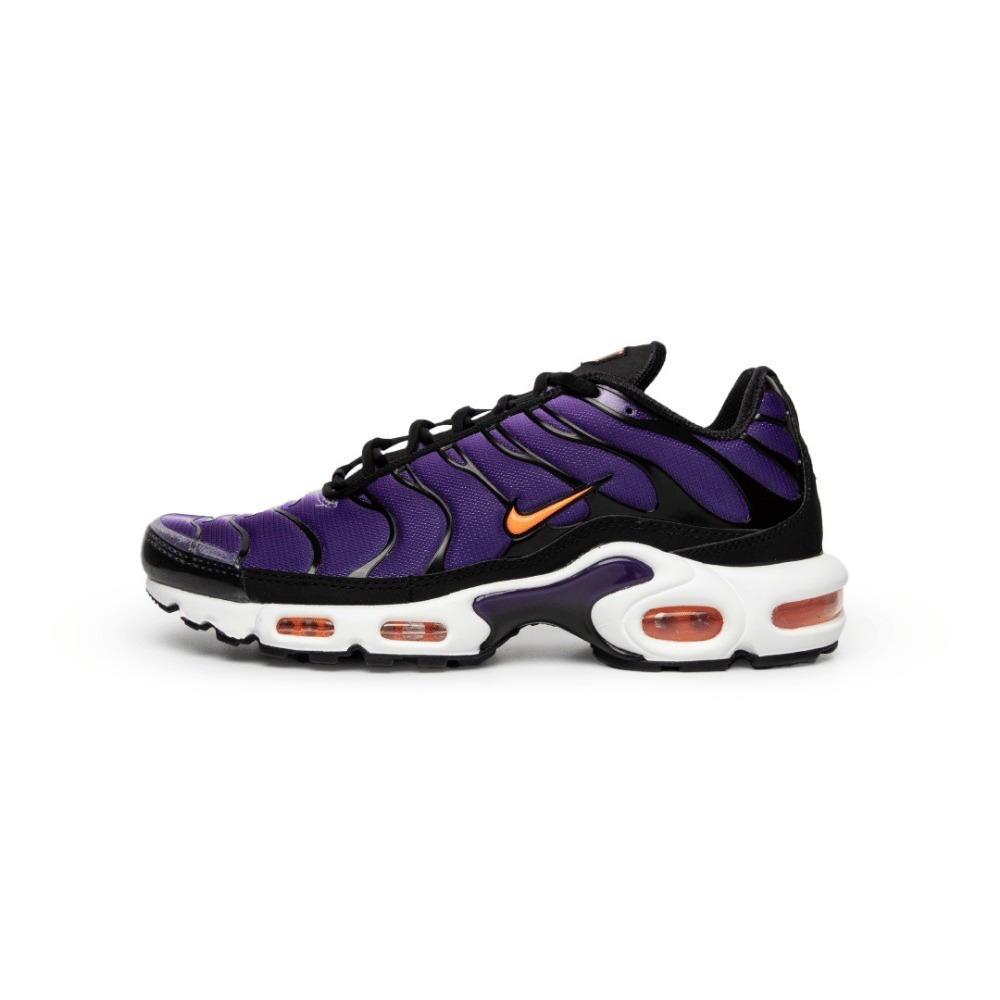
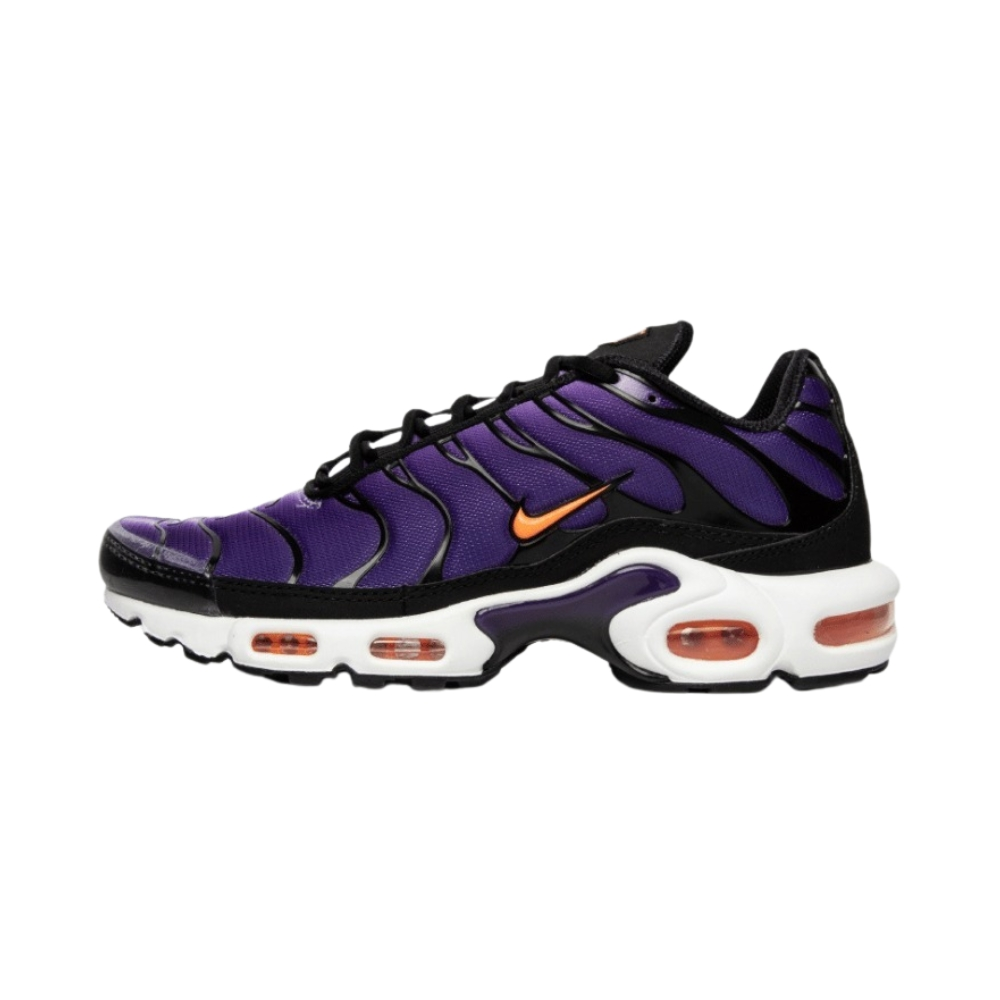
atualizado

Changed region(s): [[0.093, 0.31, 0.899, 0.713]]

diff --git a/home.html b/home.html
@@ -139,7 +139,7 @@
     <h1 id="nikeh">NIKE</h1>
     <div class="container-produtos">
         <article class="produto">
-            <img src="Imagens/air max 90 - 2.webp" alt="AIR MAX 90">
+            <img src="Imagens/air max 90 - 2.jpg" alt="AIR MAX 90">
             <h2>Air Max 90 Iron Grey</h2>
             <p>Produto de alta qualidade, conforto e um design incrível.</p>
             <span class="preco">R$ 589,99</span>
@@ -149,7 +149,7 @@
         </article>
 
         <article class="produto">
-            <img src="Imagens/dunk.webp" alt="DUNK LOW COURT PURPLE">
+            <img src="Imagens/dunk-0.jpg" alt="DUNK LOW COURT PURPLE">
             <h2>Dunk Low Court Purple</h2>
             <p>O clássico Nike SB Dunk Low ganha uma releitura ousada pelas mãos da skatista australiana Hayley Wilson.</p>
             <span class="preco">R$ 1.589,30</span>
@@ -159,7 +159,7 @@
         </article>
 
         <article class="produto">
-            <img src="Imagens/cortez-0.webp" alt="AIR MAX 95 CORTEZ">
+            <img src="Imagens/corteiz-0.jpg" alt="AIR MAX 95 CORTEZ">
             <h2>Corteiz x Nike Air Max 95</h2>
             <p>Lançado como parte do pacote ‘Rules the World’ da marca de streetwear do Reino Unido.</p>
             <span class="preco">R$ 5.299,90</span>
@@ -183,7 +183,7 @@
     <h1 id="adidash">ADIDAS</h1>
     <div class="container-produtos">
         <article class="produto">
-            <img src="Imagens/campus-0.webp" alt="Produto Nike">
+            <img src="Imagens/campus-0.jpg" alt="Produto Nike">
             <h2>Campus 00s Grey Three Carbon</h2>
             <p>Modelo icônico original com materiais, cores e proporções modernas.</p>
             <span class="preco">R$ 750,00</span>
@@ -193,7 +193,7 @@
         </article>
 
         <article class="produto">
-            <img src="Imagens/thieves-0.webp" alt="Produto Adidas">
+            <img src="Imagens/thieves-0.jpg" alt="Produto Adidas">
             <h2>100 Thieves x adidas Savage</h2>
             <p>O mais recente lançamento da collab adidas x 100 Thieves questiona o significado de explorar em 2025.</p>
             <span class="preco">R$ 149,90</span>
@@ -203,7 +203,7 @@
         </article>
 
         <article class="produto">
-            <img src="Imagens/A3-0.webp" alt="Produto Adidas">
+            <img src="Imagens/A3-0.jpg" alt="Produto Adidas">
             <h2>Y-3 x adidas A3</h2>
             <p>Viaje de volta ao ano de 2002 com o Y-3 A3 Control. Esta reedição de um par de tênis clássicos.</p>
             <span class="preco">R$ 2.799,99</span>
@@ -213,7 +213,7 @@
         </article>
 
         <article class="produto">
-            <img src="Imagens/Ultraboost-0.webp" alt="Produto Adidas">
+            <img src="Imagens/Ultraboost-0.jpg" alt="Produto Adidas">
             <h2>CAMPUS 4</h2>
             <p>O único tênis de corrida de alto desempenho que também conquistou o mundo da moda.</p>
             <span class="preco">R$ 600,00</span>

diff --git a/InfoProdAd4.html b/InfoProdAd4.html
@@ -30,20 +30,20 @@
         <div class="left-column">
             <div class="main-image-box">
                 <span class="arrow left" onclick="trocarImagem(-1)">‹</span>
-                <img id="main-image" src="imagens/Ultraboost-1.webp" alt="Imagem do Tênis">
+                <img id="main-image" src="imagens/Ultraboost-1.jpg" alt="Imagem do Tênis">
                 <span class="arrow right" onclick="trocarImagem(1)">›</span>
             </div>
             <div class="thumbnail-row">
-                <div class="thumbnail"><img src="imagens/Ultraboost-2.webp" alt="Miniatura 1"
+                <div class="thumbnail"><img src="imagens/Ultraboost-2.jpg" alt="Miniatura 1"
                         onclick="selecionarImagem(0)">
                 </div>
-                <div class="thumbnail"><img src="imagens/Ultraboost-3.webp" alt="Miniatura 2"
+                <div class="thumbnail"><img src="imagens/Ultraboost-3.jpg" alt="Miniatura 2"
                         onclick="selecionarImagem(1)">
                 </div>
-                <div class="thumbnail"><img src="imagens/Ultraboost-4.webp" alt="Miniatura 3"
+                <div class="thumbnail"><img src="imagens/Ultraboost-4.jpg" alt="Miniatura 3"
                         onclick="selecionarImagem(2)">
                 </div>
-                <div class="thumbnail"><img src="imagens/Ultraboost-5.webp" alt="Miniatura 4"
+                <div class="thumbnail"><img src="imagens/Ultraboost-5.jpg" alt="Miniatura 4"
                         onclick="selecionarImagem(3)">
                 </div>
             </div>
@@ -65,16 +65,16 @@
                 <h4>PRODUTOS SEMELHANTES</h4>
                 <div class="semelhantes-container">
                     <a href="InfoProdAd3.html">
-                        <div class="semelhante-item"><img src="imagens/A3-0.webp" alt="Produto 1"></div>
+                        <div class="semelhante-item"><img src="imagens/A3-0.jpg" alt="Produto 1"></div>
                     </a>
                     <a href="InfoProd4.html">
                         <div class="semelhante-item"><img src="imagens/tn-0.jpg" alt="Produto 2"></div>
                     </a>
                     <a href="InfoProdAd2.html">
-                        <div class="semelhante-item"><img src="imagens/thieves-0.webp" alt="Produto 3"></div>
+                        <div class="semelhante-item"><img src="imagens/thieves-0.jpg" alt="Produto 3"></div>
                     </a>
                     <a href="InfoProdAd.html">
-                        <div class="semelhante-item"><img src="imagens/campus-0.webp" alt="Produto 4"></div>
+                        <div class="semelhante-item"><img src="imagens/campus-0.jpg" alt="Produto 4"></div>
                     </a>
 
 

diff --git a/InfoProd.html b/InfoProd.html
@@ -30,17 +30,17 @@
     <div class="left-column">
       <div class="main-image-box">
         <span class="arrow left" onclick="trocarImagem(-1)">‹</span>
-        <img id="main-image" src="imagens/air max 90.webp" alt="Imagem do Tênis">
+        <img id="main-image" src="imagens/air max 90.jpg" alt="Imagem do Tênis">
         <span class="arrow right" onclick="trocarImagem(1)">›</span>
       </div>
       <div class="thumbnail-row">
-        <div class="thumbnail"><img src="imagens/air max 90 - 2.webp" alt="Miniatura 1" onclick="selecionarImagem(0)">
+        <div class="thumbnail"><img src="imagens/air max 90 - 2.jpg" alt="Miniatura 1" onclick="selecionarImagem(0)">
         </div>
-        <div class="thumbnail"><img src="imagens/air max 90 - 3.webp" alt="Miniatura 2" onclick="selecionarImagem(1)">
+        <div class="thumbnail"><img src="imagens/air max 90 - 3.jpg" alt="Miniatura 2" onclick="selecionarImagem(1)">
         </div>
-        <div class="thumbnail"><img src="imagens/air max 90 - 4.webp" alt="Miniatura 3" onclick="selecionarImagem(2)">
+        <div class="thumbnail"><img src="imagens/air max 90 - 4.jpg" alt="Miniatura 3" onclick="selecionarImagem(2)">
         </div>
-        <div class="thumbnail"><img src="imagens/air max 90 - 5.webp" alt="Miniatura 4" onclick="selecionarImagem(3)">
+        <div class="thumbnail"><img src="imagens/air max 90 - 5.jpg" alt="Miniatura 4" onclick="selecionarImagem(3)">
         </div>
       </div>
     </div>
@@ -60,10 +60,10 @@
       <div class="semelhantes">
         <h4>PRODUTOS SEMELHANTES</h4>
         <div class="semelhantes-container">
-          <div class="semelhante-item"><img src="imagens/af1.webp" alt="Produto 1"></div>
-          <div class="semelhante-item"><img src="imagens/tn.webp" alt="Produto 2"></div>
-          <div class="semelhante-item"><img src="imagens/dunk.webp" alt="Produto 3"></div>
-          <div class="semelhante-item"><img src="imagens/j11.webp" alt="Produto 4"></div>
+          <div class="semelhante-item"><img src="imagens/af1.jpg" alt="Produto 1"></div>
+          <div class="semelhante-item"><img src="imagens/tn.jpg" alt="Produto 2"></div>
+          <div class="semelhante-item"><img src="imagens/dunk.jpg" alt="Produto 3"></div>
+          <div class="semelhante-item"><img src="imagens/j11.jpg" alt="Produto 4"></div>
         </div>
       </div>
     </div>

diff --git a/InfoProdAd2.html b/InfoProdAd2.html
@@ -30,20 +30,20 @@
         <div class="left-column">
             <div class="main-image-box">
                 <span class="arrow left" onclick="trocarImagem(-1)">‹</span>
-                <img id="main-image" src="imagens/thieves-1.webp" alt="Imagem do Tênis">
+                <img id="main-image" src="imagens/thieves-1.jpg" alt="Imagem do Tênis">
                 <span class="arrow right" onclick="trocarImagem(1)">›</span>
             </div>
             <div class="thumbnail-row">
-                <div class="thumbnail"><img src="imagens/thieves-2.webp" alt="Miniatura 1"
+                <div class="thumbnail"><img src="imagens/thieves-2.jpg" alt="Miniatura 1"
                         onclick="selecionarImagem(0)">
                 </div>
-                <div class="thumbnail"><img src="imagens/thieves-3.webp" alt="Miniatura 2"
+                <div class="thumbnail"><img src="imagens/thieves-3.jpg" alt="Miniatura 2"
                         onclick="selecionarImagem(1)">
                 </div>
-                <div class="thumbnail"><img src="imagens/thieves-4.webp" alt="Miniatura 3"
+                <div class="thumbnail"><img src="imagens/thieves-4.jpg" alt="Miniatura 3"
                         onclick="selecionarImagem(2)">
                 </div>
-                <div class="thumbnail"><img src="imagens/thieves-5.webp" alt="Miniatura 4"
+                <div class="thumbnail"><img src="imagens/thieves-5.jpg" alt="Miniatura 4"
                         onclick="selecionarImagem(3)">
                 </div>
             </div>

diff --git a/InfoProdAd3.html b/InfoProdAd3.html
@@ -30,17 +30,17 @@
         <div class="left-column">
             <div class="main-image-box">
                 <span class="arrow left" onclick="trocarImagem(-1)">‹</span>
-                <img id="main-image" src="imagens/A3-1.webp" alt="Imagem do Tênis">
+                <img id="main-image" src="imagens/A3-1.jpg" alt="Imagem do Tênis">
                 <span class="arrow right" onclick="trocarImagem(1)">›</span>
             </div>
             <div class="thumbnail-row">
-                <div class="thumbnail"><img src="imagens/A3-2.webp" alt="Miniatura 1" onclick="selecionarImagem(0)">
+                <div class="thumbnail"><img src="Imagens/A3-2.jpg" alt="Miniatura 1" onclick="selecionarImagem(0)">
                 </div>
-                <div class="thumbnail"><img src="imagens/A3-3.webp" alt="Miniatura 2" onclick="selecionarImagem(1)">
+                <div class="thumbnail"><img src="imagens/A3-3.jpg" alt="Miniatura 2" onclick="selecionarImagem(1)">
                 </div>
-                <div class="thumbnail"><img src="imagens/A3-4.webp" alt="Miniatura 3" onclick="selecionarImagem(2)">
+                <div class="thumbnail"><img src="imagens/A3-4.jpg" alt="Miniatura 3" onclick="selecionarImagem(2)">
                 </div>
-                <div class="thumbnail"><img src="imagens/A3-5.webp" alt="Miniatura 4" onclick="selecionarImagem(3)">
+                <div class="thumbnail"><img src="imagens/A3-5.jpg" alt="Miniatura 4" onclick="selecionarImagem(3)">
                 </div>
             </div>
         </div>

diff --git a/InfoProd3.html b/InfoProd3.html
@@ -30,17 +30,17 @@
     <div class="left-column">
       <div class="main-image-box">
         <span class="arrow left" onclick="trocarImagem(-1)">‹</span>
-        <img id="main-image" src="imagens/cortez-1.webp" alt="Imagem do Tênis">
+        <img id="main-image" src="Imagens/corteiz-1.jpg" alt="Imagem do Tênis">
         <span class="arrow right" onclick="trocarImagem(1)">›</span>
       </div>
       <div class="thumbnail-row">
-        <div class="thumbnail"><img src="Imagens/cortez-2.webp" alt="Miniatura 1" onclick="selecionarImagem(0)">
+        <div class="thumbnail"><img src="Imagens/corteiz-2.jpg" alt="Miniatura 1" onclick="selecionarImagem(0)">
         </div>
-        <div class="thumbnail"><img src="imagens/cortez-4.webp" alt="Miniatura 2" onclick="selecionarImagem(1)">
+        <div class="thumbnail"><img src="Imagens/corteiz-3.jpg" alt="Miniatura 2" onclick="selecionarImagem(1)">
         </div>
-        <div class="thumbnail"><img src="imagens/cortez-3.webp" alt="Miniatura 3" onclick="selecionarImagem(2)">
+        <div class="thumbnail"><img src="Imagens/corteiz-4.jpg" alt="Miniatura 3" onclick="selecionarImagem(2)">
         </div>
-        <div class="thumbnail"><img src="imagens/cortez-5.webp" alt="Miniatura 4" onclick="selecionarImagem(3)">
+        <div class="thumbnail"><img src="Imagens/corteiz-5.jpg" alt="Miniatura 4" onclick="selecionarImagem(3)">
         </div>
       </div>
     </div>

diff --git a/InfoProdAd.html b/InfoProdAd.html
@@ -30,17 +30,17 @@
     <div class="left-column">
       <div class="main-image-box">
         <span class="arrow left" onclick="trocarImagem(-1)">‹</span>
-        <img id="main-image" src="imagens/campus-1.webp" alt="Imagem do Tênis">
+        <img id="main-image" src="imagens/campus-1.jpg" alt="Imagem do Tênis">
         <span class="arrow right" onclick="trocarImagem(1)">›</span>
       </div>
       <div class="thumbnail-row">
-        <div class="thumbnail"><img src="imagens/campus-2.webp" alt="Miniatura 1" onclick="selecionarImagem(0)">
+        <div class="thumbnail"><img src="imagens/campus-2.jpg" alt="Miniatura 1" onclick="selecionarImagem(0)">
         </div>
-        <div class="thumbnail"><img src="imagens/campus-3.webp" alt="Miniatura 2" onclick="selecionarImagem(1)">
+        <div class="thumbnail"><img src="imagens/campus-3.jpg" alt="Miniatura 2" onclick="selecionarImagem(1)">
         </div>
-        <div class="thumbnail"><img src="imagens/campus-4.webp" alt="Miniatura 3" onclick="selecionarImagem(2)">
+        <div class="thumbnail"><img src="imagens/campus-4.jpg" alt="Miniatura 3" onclick="selecionarImagem(2)">
         </div>
-        <div class="thumbnail"><img src="imagens/campus-5.webp" alt="Miniatura 4" onclick="selecionarImagem(3)">
+        <div class="thumbnail"><img src="imagens/campus-5.jpg" alt="Miniatura 4" onclick="selecionarImagem(3)">
         </div>
       </div>
     </div>

diff --git a/InfoProd2.html b/InfoProd2.html
@@ -30,17 +30,17 @@
     <div class="left-column">
       <div class="main-image-box">
         <span class="arrow left" onclick="trocarImagem(-1)">‹</span>
-        <img id="main-image" src="imagens/dunk-1.webp" alt="Imagem do Tênis">
+        <img id="main-image" src="imagens/dunk-1.jpg" alt="Imagem do Tênis">
         <span class="arrow right" onclick="trocarImagem(1)">›</span>
       </div>
       <div class="thumbnail-row">
-        <div class="thumbnail"><img src="imagens/dunk-2.webp" alt="Miniatura 1" onclick="selecionarImagem(0)">
+        <div class="thumbnail"><img src="imagens/dunk-2.jpg" alt="Miniatura 1" onclick="selecionarImagem(0)">
         </div>
-        <div class="thumbnail"><img src="imagens/dunk-3.webp" alt="Miniatura 2" onclick="selecionarImagem(1)">
+        <div class="thumbnail"><img src="Imagens/dunk-3.jpg" alt="Miniatura 2" onclick="selecionarImagem(1)">
         </div>
-        <div class="thumbnail"><img src="imagens/dunk-4.webp" alt="Miniatura 3" onclick="selecionarImagem(2)">
+        <div class="thumbnail"><img src="imagens/dunk-4.jpg" alt="Miniatura 3" onclick="selecionarImagem(2)">
         </div>
-        <div class="thumbnail"><img src="imagens/dunk-5.webp" alt="Miniatura 4" onclick="selecionarImagem(3)">
+        <div class="thumbnail"><img src="imagens/dunk-5.jpg" alt="Miniatura 4" onclick="selecionarImagem(3)">
         </div>
       </div>
     </div>

diff --git a/InfoProd.js b/InfoProd.js
@@ -1,4 +1,4 @@
-const imagens = ['imagens/air max 90.webp', 'imagens/air max 90 - 2.webp', 'imagens/air max 90 - 3.webp', 'imagens/air max 90 - 4.webp', 'imagens/air max 90 - 5.webp'];
+const imagens = ['imagens/air max 90.jpg', 'imagens/air max 90 - 2.jpg', 'imagens/air max 90 - 3.jpg', 'imagens/air max 90 - 4.jpg', 'imagens/air max 90 - 5.jpg'];
 let indiceAtual = 0;
 
 function trocarImagem(direcao) {

diff --git a/InfoProdAd4.js b/InfoProdAd4.js
@@ -1,4 +1,4 @@
-const imagens = ['imagens/Ultraboost-1.webp', 'imagens/Ultraboost-2.webp', 'imagens/Ultraboost-3.webp', 'imagens/Ultraboost-4.webp', 'imagens/Ultraboost-5.webp'];
+const imagens = ['imagens/Ultraboost-1.jpg', 'imagens/Ultraboost-2.jpg', 'imagens/Ultraboost-3.jpg', 'imagens/Ultraboost-4.jpg', 'imagens/Ultraboost-5.jpg'];
 let indiceAtual = 0;
 
 function trocarImagem(direcao) {

diff --git a/InfoProdAd2.js b/InfoProdAd2.js
@@ -1,4 +1,4 @@
-const imagens = ['imagens/thieves-1.webp', 'imagens/thieves-2.webp', 'imagens/thieves-3.webp', 'imagens/thieves-4.webp', 'imagens/thieves-5.webp'];
+const imagens = ['imagens/thieves-1.jpg', 'imagens/thieves-2.jpg', 'imagens/thieves-3.jpg', 'imagens/thieves-4.jpg', 'imagens/thieves-5.jpg'];
 let indiceAtual = 0;
 
 function trocarImagem(direcao) {

diff --git a/InfoProd3.js b/InfoProd3.js
@@ -1,4 +1,4 @@
-const imagens = ['imagens/cortez-1.webp', 'imagens/cortez-2.webp', 'imagens/cortez-4.webp', 'imagens/cortez-3.webp', 'imagens/cortez-5.webp'];
+const imagens = ['Imagens/corteiz-1.jpg', 'imagens/corteiz-2.jpg', 'imagens/corteiz-4.jpg', 'imagens/corteiz-3.jpg', 'imagens/corteiz-5.jpg'];
 let indiceAtual = 0;
 
 function trocarImagem(direcao) {
